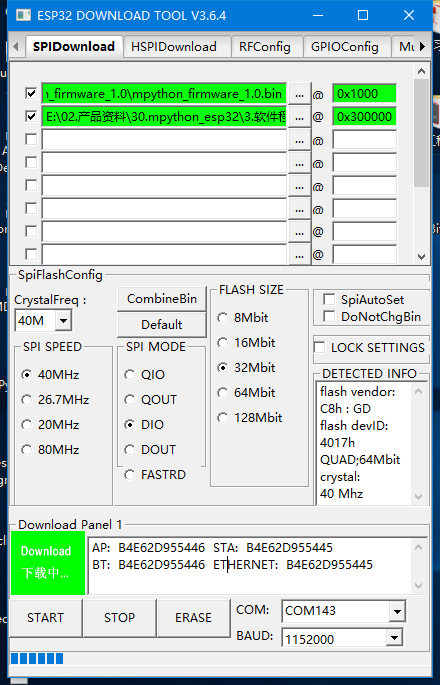
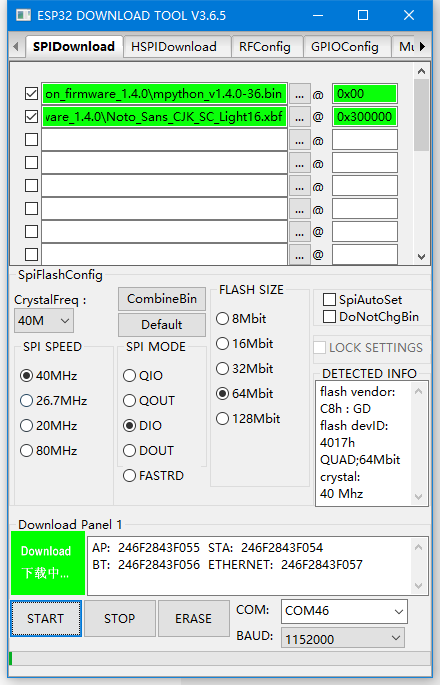
更新固件烧录教程图片

diff --git a/docs/board/flashburn.rst b/docs/board/flashburn.rst
@@ -2,9 +2,8 @@
 ====================
 
 
-烧录工具使用乐鑫官网提供的下载软件 :download:`ESPFlashDownloadTool </../docs/tools/FLASH_DOWNLOAD_TOOLS_V3.6.4.rar>`
-
-掌控板固件可到 :ref:`掌控固件发布<release>` 章节获取。
+* 烧录工具使用乐鑫官网提供的 `flash下载软件 <https://www.espressif.com/zh-hans/support/download/other-tools>`_。
+* 掌控板固件可到 :ref:`掌控固件发布<release>` 章节获取。
 
 ---------
 
@@ -12,10 +11,10 @@
 
 .. image:: /images/flashburn/flashDownload_1.png
 
-选择 **SPIDownload** ，然后浏览并选中刚下载的掌控板固件mpython_firmware_1.0.bin，并设置地址是0x1000。浏览并选中字库Noto_Sans_CJK_SC_Light16.xbf，并设置0x300000。
+选择 **SPIDownload** ，然后浏览并选中刚下载的掌控板固件mpython_v1.3.0.bin，并设置地址是0x00。浏览并选中字库Noto_Sans_CJK_SC_Light16.xbf，并设置0x300000。
 将CrystallFreq设为40M，SPI SPEED 设为40MHz，SPI MODE设为DIO，FLASH SIZE改为64MBit，串口号设置为实际串口，波特率1152000。
 
-.. Caution:: v1.1.1以后的固件版本,烧录起始地址改为0x00!
+.. Caution:: v1.1.1以后的固件版本,firmware烧录起始地址改为0x00!
 
 .. image:: /images/flashburn/flashDownload_2.png
 
